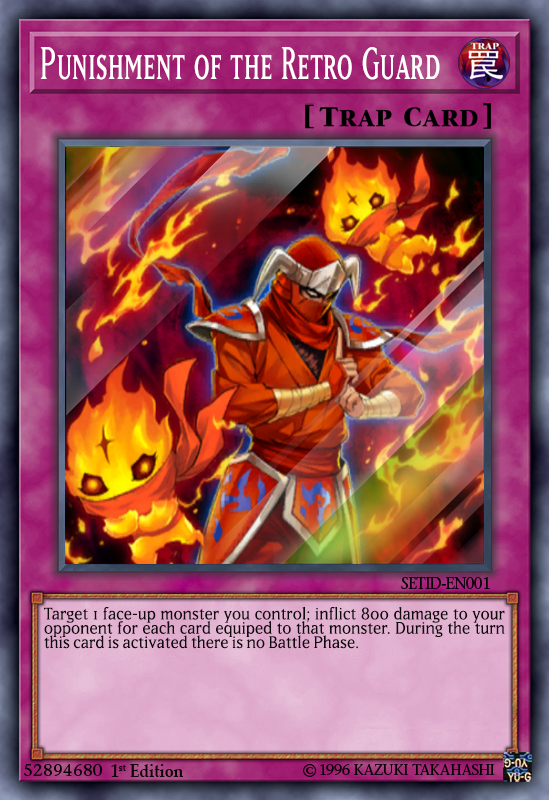
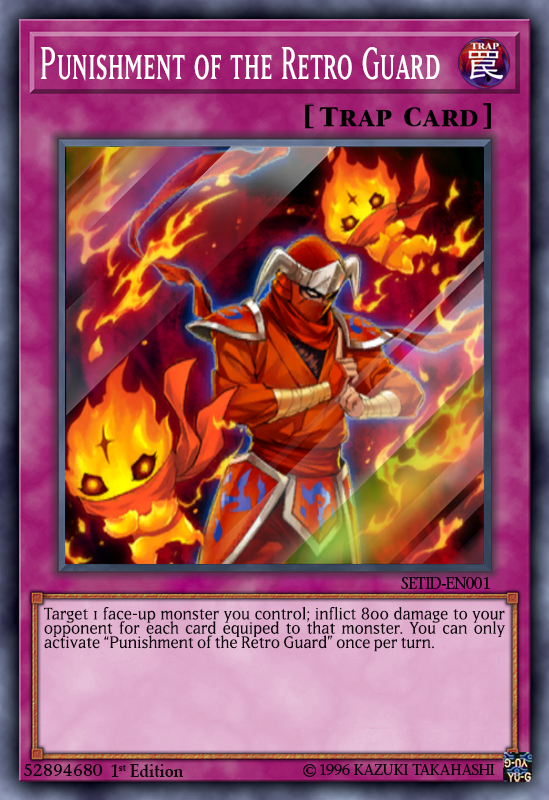
Update

Changed region(s): [[0.0619, 0.7812, 0.929, 0.8125]]

diff --git a/Scripts/cards_db.js b/Scripts/cards_db.js
@@ -1413,7 +1413,7 @@ var CARDS_DB =
             "ATK": 0,
             "DEF": 0,
             "Attribute": "",
-            "Effect": "Target 1 face-up monster you control; inflict 800 damage to your opponent for each card equiped to that monster. During the turn this card is activated there is no Battle Phase."
+            "Effect": "Target 1 face-up monster you control; inflict 800 damage to your opponent for each card equiped to that monster. You can only activate \u201cPunishment of the Retro Guard\u201d once per turn."
         }
     },
     {
